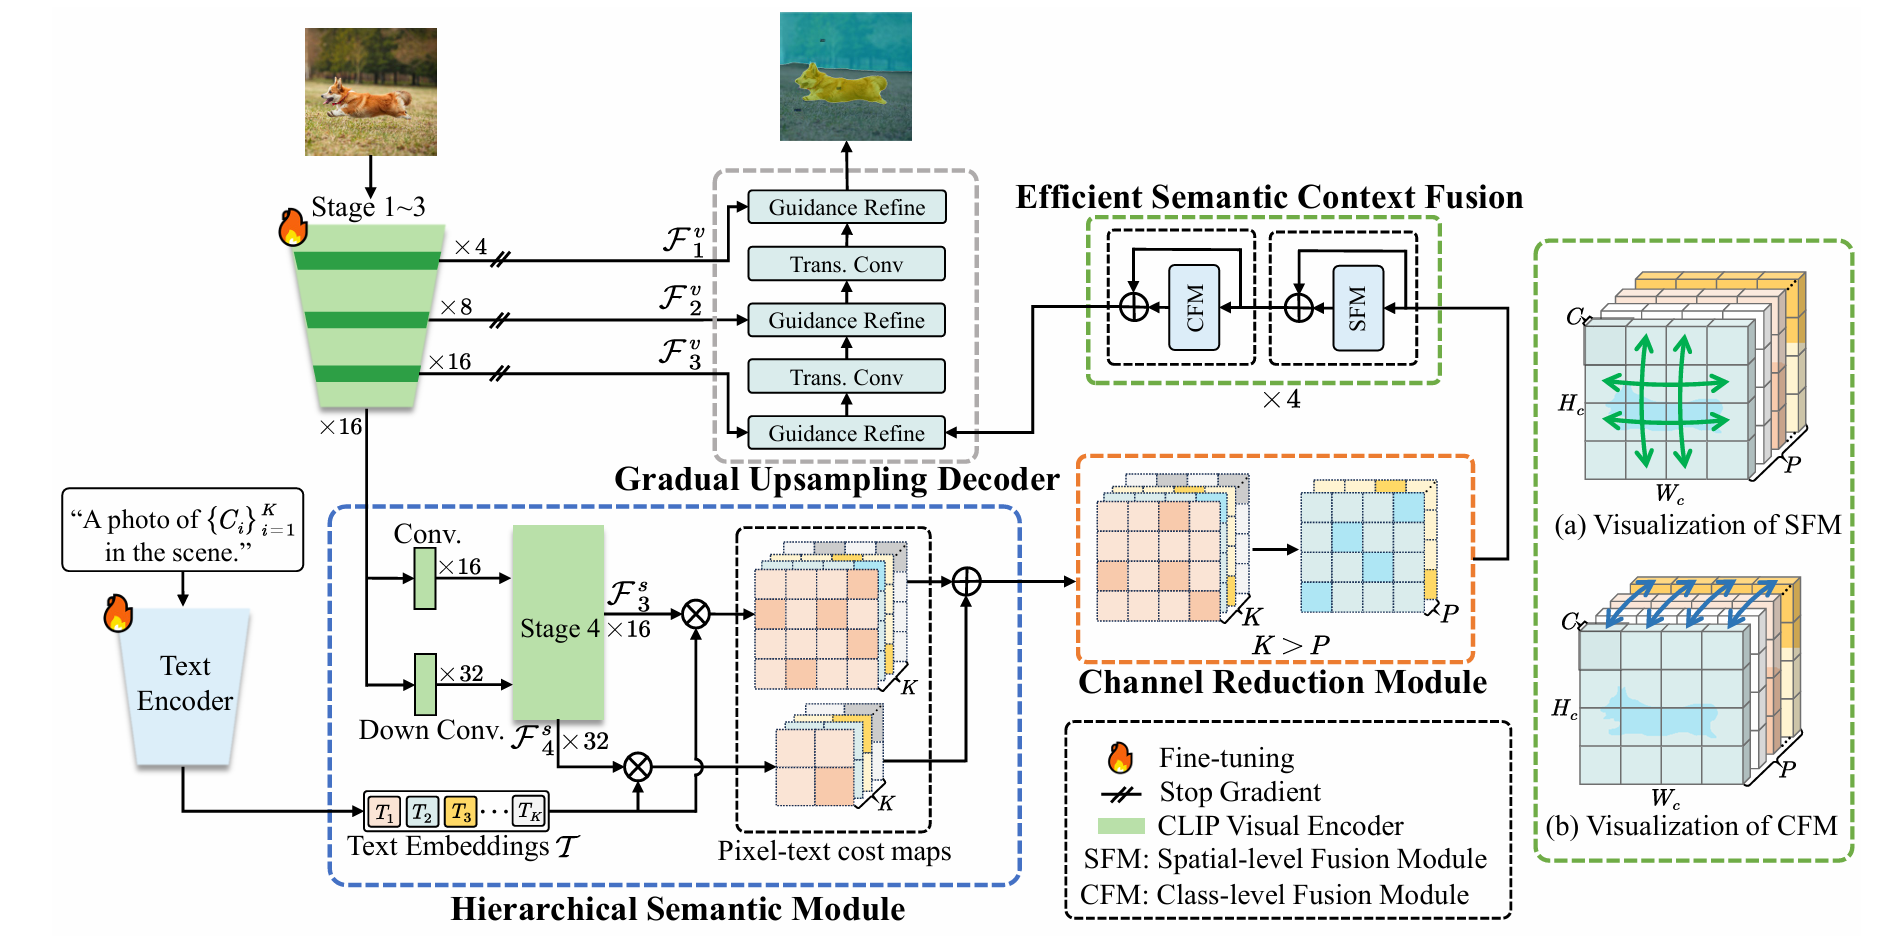
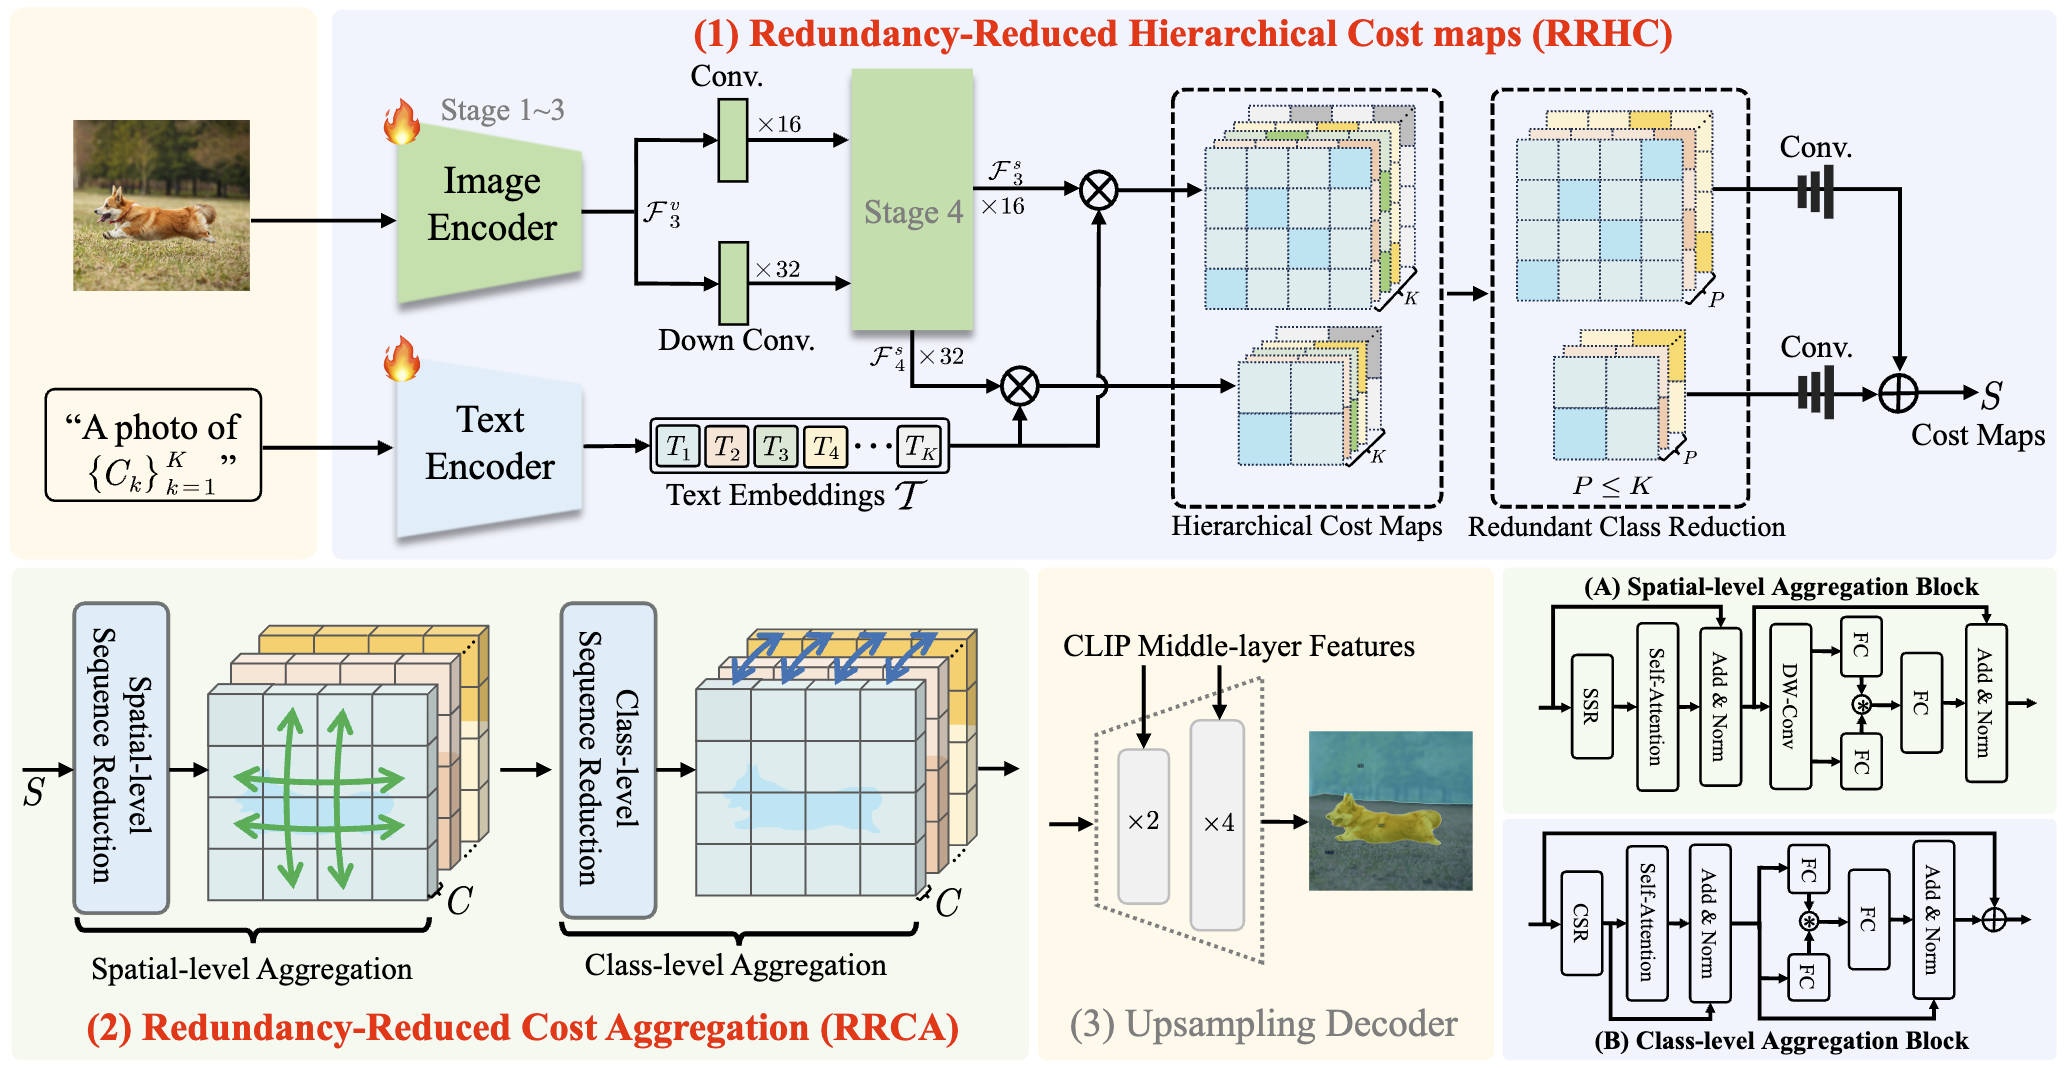
modify images

diff --git a/index.html b/index.html
@@ -177,7 +177,7 @@
       <div class="column is-four-fifths">
         <h2 class="title is-3">Abstract</h2>
         <div class="content has-text-justified">
-          Open-vocabulary semantic segmentation (OVSS) is an open-world task that aims to assign each pixel within an image to a specific class defined by arbitrary text descriptions. Recent advancements in large-scale vision-language models have demonstrated that it is capable of understanding open vocabulary in various visual scenes. However, most existing methods suffer from either suboptimal performance or long latency. This paper proposes a novel framework to balance accuracy and efficiency for OVSS in view of Efficient Redundancy Reduction (ERR) with the help of pre-trained models. We name it ERR-Seg for abbreviation. Different from the tricks for channel reduction in traditional architecture design, we construct a training-free Channel Reduction Module (CRM) by leveraging prior knowledge from vision-language models like CLIP to identify the most relevant classes and discard the others. Moreover, an Efficient Semantic Context Fusion (ESCF) is designed to achieve the goal of spatial-level and class-level sequence reduction. Architecturally, CRM and ESCF are concatenated in a staggered form into the ERR-Seg. Additionally, by considering the significance of hierarchical semantics extracted from middle-layer features for the compatibility of closed-set semantic segmentation, ERR-Seg introduces the Hierarchical Semantic Module (HSM) to exploit hierarchical semantics in the context of OVSS. Overall, ERR-Seg results in a lightweight structure for OVSS, characterized by substantial memory and computational savings without compromising accuracy.  Compared to previous state-of-the-art methods under the ADE20K-847 setting, ERR-Seg achieves +\(5.6\%\) mIoU improvement and reduces latency by \(67.3\%\).
+          Open-vocabulary semantic segmentation (OVSS) is an open-world task that aims to assign each pixel within an image to a specific class defined by arbitrary text descriptions. While large-scale vision-language models have shown remarkable open-vocabulary capabilities, their image-level pretraining limits effectiveness on pixel-wise dense prediction tasks like OVSS. Recent cost-based methods narrow this granularity gap by constructing pixel-text cost maps and refining them via cost aggregation mechanisms. Despite achieving promising performance, these approaches suffer from high computational costs and long inference latency. In this paper, we identify two major sources of redundancy in the cost-based OVSS framework: redundant information introduced during cost maps construction and inefficient sequence modeling in cost aggregation. To address these issues, we propose ERR-Seg, an efficient architecture that incorporates Redundancy-Reduced Hierarchical Cost maps (RRHC) and Redundancy-Reduced Cost Aggregation (RRCA). Specifically, RRHC reduces redundant class channels by customizing a compact class vocabulary for each image and integrates hierarchical cost maps to enrich semantic representation. RRCA alleviates computational burden by performing both spatial-level and class-level sequence reduction before aggregation. Overall, ERR-Seg results in a lightweight structure for OVSS, characterized by substantial memory and computational savings without compromising accuracy. Compared to previous state-of-the-art methods on the ADE20K-847 benchmark, ERR-Seg improves performance by $5.6\%$ while achieving a 3.1× speedup.
         </div>
       </div>
     </div>
@@ -211,7 +211,8 @@
 
         <div class="content has-text-justified">
           <p>
-            Overall architecture of ERR-Seg. We first utilize the Hierarchical Semantic Module to generate dense pixel-text cost maps. The training-free Channel Reduction Module is then used to eliminate redundant classes. The Efficient Semantic Context Fusion further enhances the cost maps, improving spatial and class-level contextual information. Finally, the Gradual Upsampling Decoder restores the high-rank information of cost maps by incorporating image details from the middle-layer features \(\mathcal{F}_i^v, i\in \{1,2,3\}\) of CLIP's visual encoder.
+            Overall architecture of ERR-Seg. Initially, redundancy-reduced hierarchical cost maps are generated by extracting cost maps from middle-layer features and eliminating class redundancy. Subsequently, the sequence length is reduced before cost aggregation to speed up the computation. Finally, the upsampling decoder restores the high-rank information of cost maps by incorporating image details from the middle-layer features of CLIP's visual encoder.
+            <!-- Overall architecture of ERR-Seg. We first utilize the Hierarchical Semantic Module to generate dense pixel-text cost maps. The training-free Channel Reduction Module is then used to eliminate redundant classes. The Efficient Semantic Context Fusion further enhances the cost maps, improving spatial and class-level contextual information. Finally, the Gradual Upsampling Decoder restores the high-rank information of cost maps by incorporating image details from the middle-layer features \(\mathcal{F}_i^v, i\in \{1,2,3\}\) of CLIP's visual encoder. -->
           </p>
         </div>
       </div>
